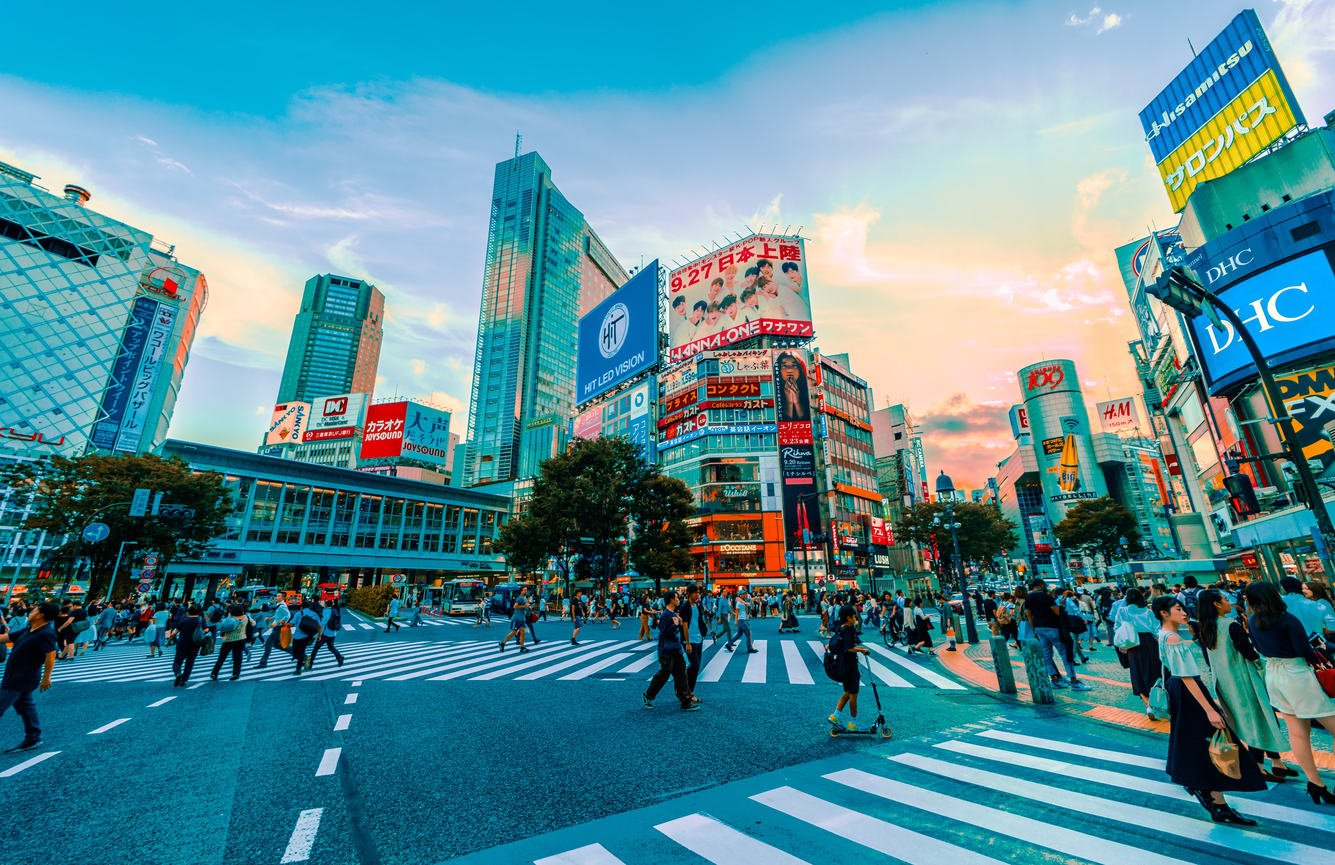
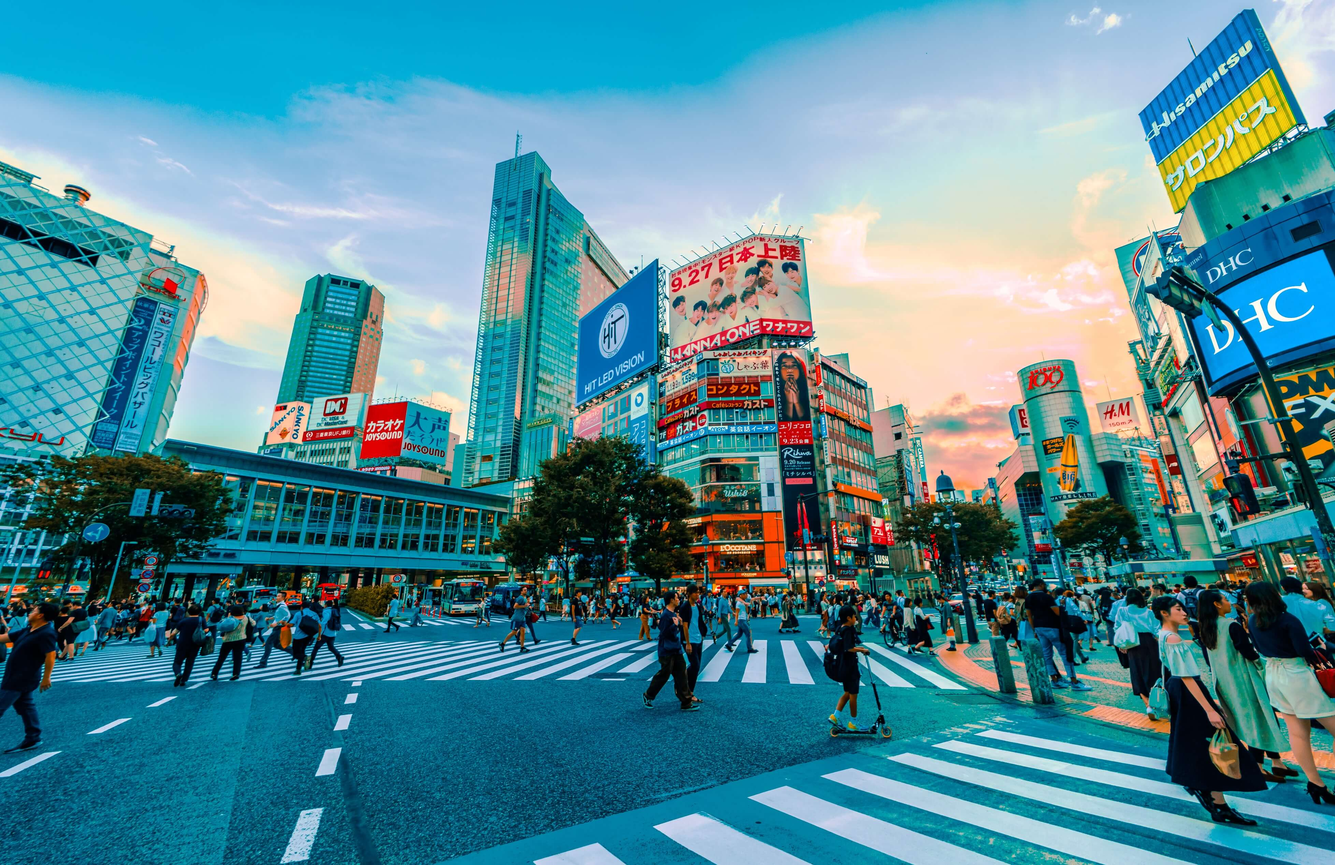
optimize images and update styles for navbar, footer, landing, and visit link

diff --git a/pages/projects/[project].js b/pages/projects/[project].js
@@ -58,12 +58,12 @@ export default function Project({ project }) {
               <h2 className="font-bold uppercase text-black mb-1">Mission</h2>
               <h2>{project?.description}</h2>
             </div>
-            <div className="my-10 lg:my-5 lg:flex lg:flex-col lg:justify-center lg:h-full">
+            <div className="my-10 lg:my-5 lg:flex lg:flex-col lg:justify-center lg:h-full mt-10">
               <a
                 href={project?.link}
                 target="_blank"
                 rel="noopener noreferrer"
-                className="font-content uppercase text-white bg-black py-3 px-5 mt-5 rounded-sm lg:py-1 lg:px-3 flex items-center sm:text-sm"
+                className="font-content uppercase rounded-sm flex items-center sm:text-sm py-3 px-5 lg:py-1 lg:px-3 visit-link"
               >
                 Visit Site
                 <ArrowNarrowRightIcon className="w-5 h-5 ml-5 inline-block"></ArrowNarrowRightIcon>

diff --git a/helpers/data.js b/helpers/data.js
@@ -85,7 +85,7 @@ export const images = [
 
 export const particlesParams = {
   particles: {
-    number: { value: 25, density: { enable: false, value_area: 300 } },
+    number: { value: 30, density: { enable: false, value_area: 300 } },
     color: { value: "#c84040" },
     shape: {
       type: "image",
@@ -99,7 +99,7 @@ export const particlesParams = {
       anim: { enable: false, speed: 1, opacity_min: 0.1, sync: false },
     },
     size: {
-      value: 6,
+      value: 7,
       random: true,
       anim: { enable: false, speed: 40, size_min: 0.1, sync: false },
     },

diff --git a/styles/globals.css b/styles/globals.css
@@ -91,3 +91,28 @@
   left: 0;
   top: 0;
 }
+
+.visit-link {
+  @apply text-black;
+  position: relative;
+  border: 1.5px solid rgb(0, 0, 0);
+  background-size: 300%;
+  transition: all 0.6s;
+  background-color: rgb(0, 0, 0);
+  background-image: linear-gradient(
+    90deg,
+    rgb(255, 255, 255) 50%,
+    rgb(0, 0, 0) 50%
+  );
+}
+
+.visit-link:hover {
+  @apply text-white;
+  background-position: 100%;
+  transform: translateX(0.5rem);
+}
+
+.visit-link:active {
+  transform: translate(0.5rem, 0.5rem);
+  box-shadow: 0px 10px 20px -15px rgba(229, 231, 235, 0.2);
+}

diff --git a/components/Footer.js b/components/Footer.js
@@ -2,7 +2,7 @@ import React from "react";
 
 export default function Footer() {
   return (
-    <footer className="flex items-center justify-between w-full h-14 border-t px-5 sm:text-xs xs:px-2">
+    <footer className="flex items-center justify-between w-full h-14 border-t px-5 text-gray-500 text-xs xs:px-2">
       <a href="https://logomakr.com/" target="_blank" rel="noopener noreferrer">
         Created my free logo at <strong>LogoMakr.com</strong>
       </a>

diff --git a/components/Navbar.js b/components/Navbar.js
@@ -31,7 +31,7 @@ export default function Navbar() {
             </a>
           </Link>{" "}
         </div>
-        <nav className="title-font font-medium text-sm tracking-widest flex justify-end items-center pt-5">
+        <nav className="title-font font-medium text-sm tracking-wide flex justify-end items-center pt-5">
           {!showMenu && (
             <>
               <Link href="/about">
